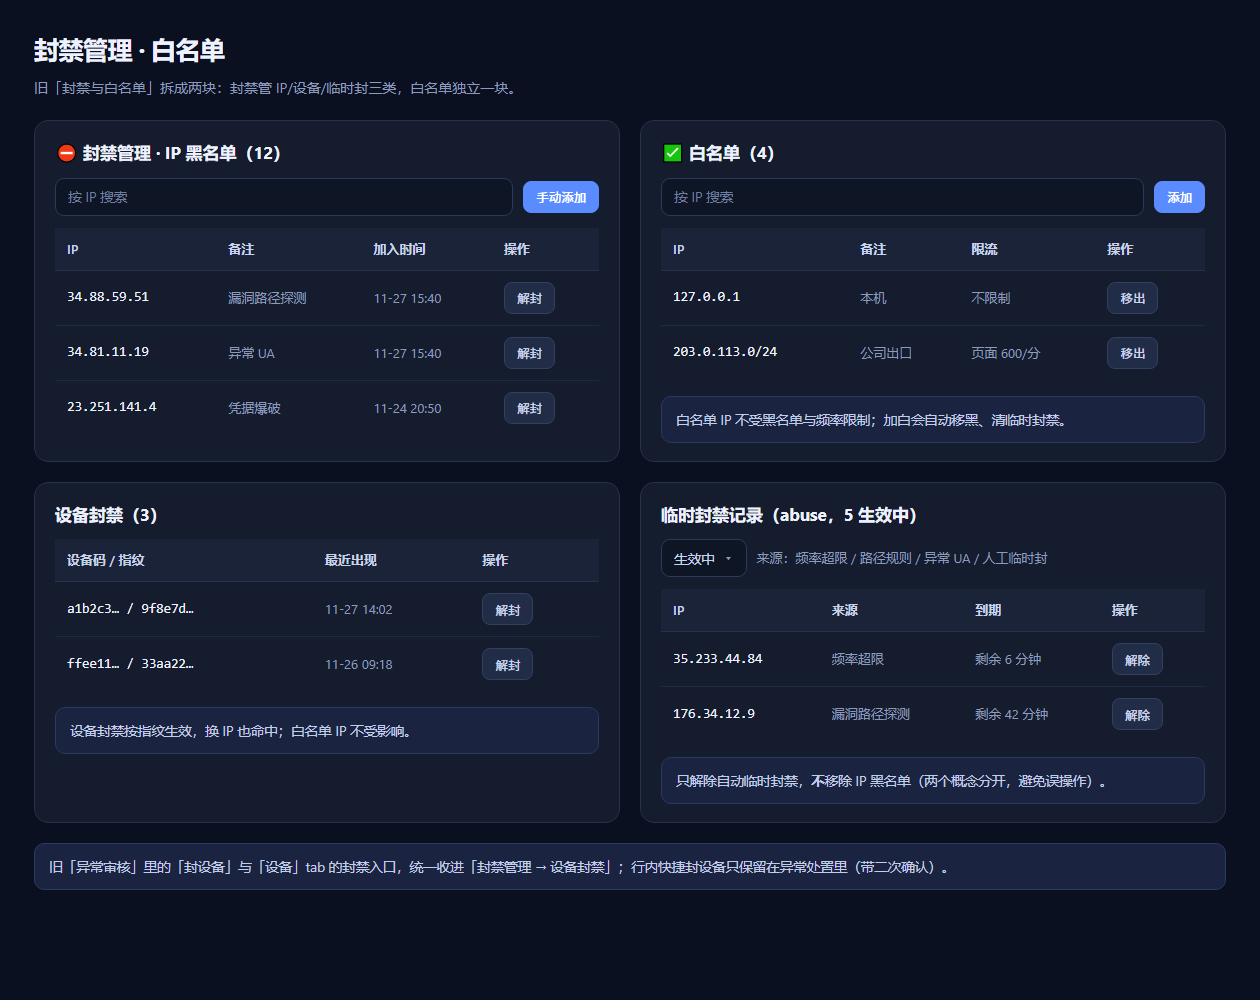
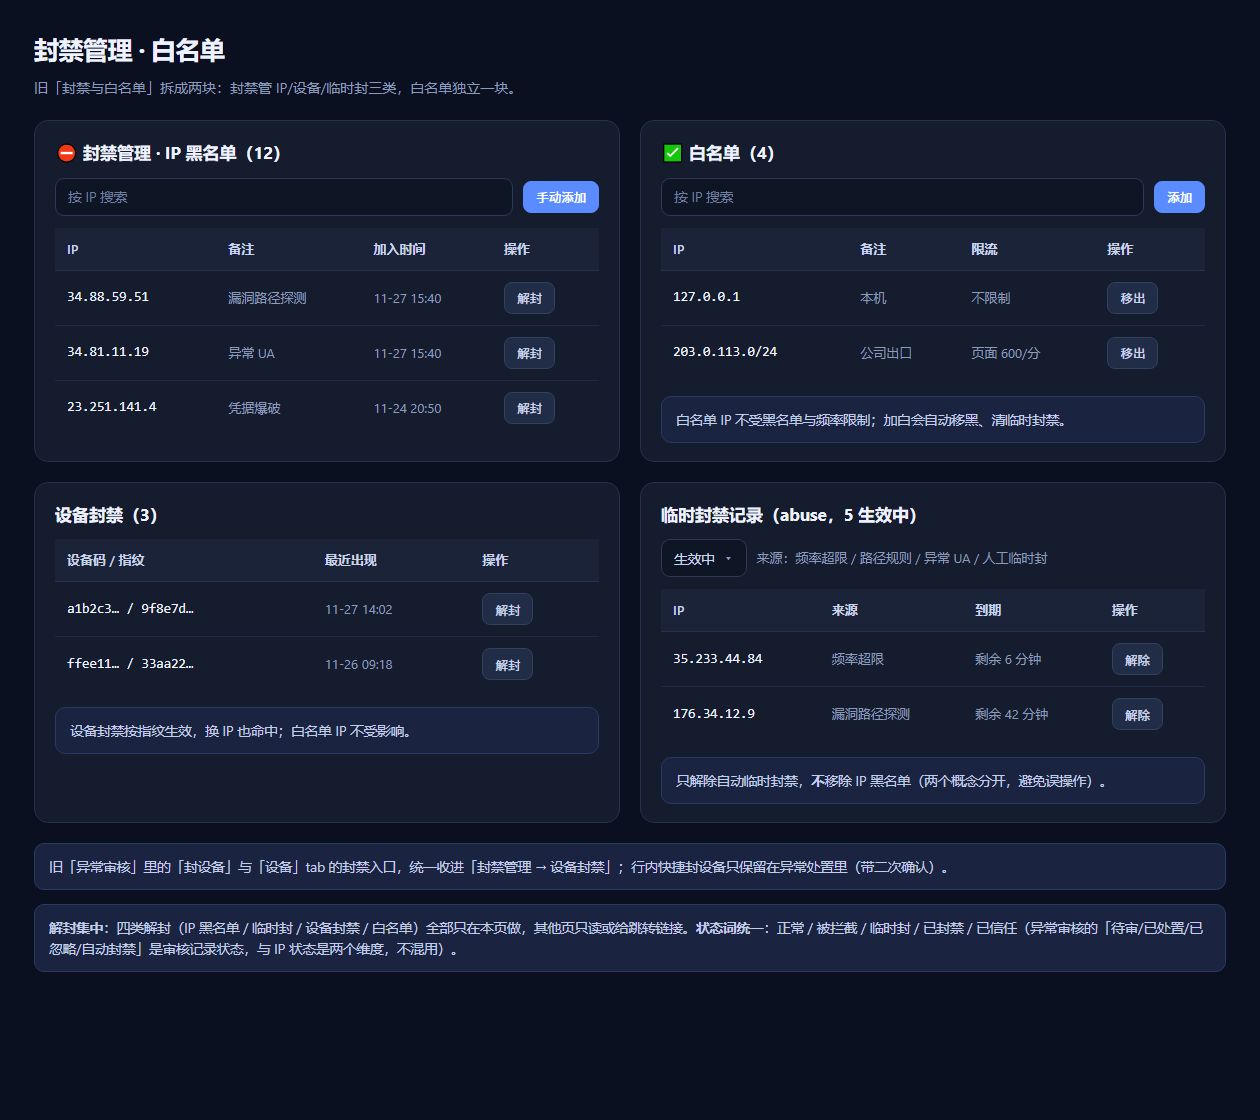
docs(design): FZ 定稿——处置只留异常处置一个入口 + IP 详情抽屉 + 解封集中/状态词统一（demo 与规格同步）

diff --git a/docs/design/visitors-redesign-2026-11-27.html b/docs/design/visitors-redesign-2026-11-27.html
@@ -66,6 +66,17 @@
   .k{color:#7f8fb3;font-size:12.5px}
   .step{display:flex;align-items:center;gap:10px;color:var(--muted);font-size:13px;margin:0 0 10px}
   .num{display:inline-flex;width:21px;height:21px;border-radius:50%;background:var(--brand);color:#fff;font-size:12px;align-items:center;justify-content:center;flex:none}
+  .drawer{width:520px;flex:none;background:#111a2b;border:1px solid #2c3a5e;border-radius:14px;overflow:hidden;box-shadow:0 18px 50px #0008}
+  .drawer-head{display:flex;align-items:center;justify-content:space-between;padding:14px 18px;border-bottom:1px solid var(--border);font-weight:650;font-size:15px}
+  .drawer-body{padding:16px 18px}
+  .drawer-body h4{font-size:13px;color:var(--fg2);margin:16px 0 8px;font-weight:600}
+  .drawer-body h4:first-child{margin-top:0}
+  .kv{display:flex;justify-content:space-between;gap:12px;padding:7px 0;font-size:13.5px;border-bottom:1px dashed #1e2942}
+  .kv span{color:var(--muted)}
+  .kpi2{display:grid;grid-template-columns:repeat(3,1fr);gap:8px;margin-top:12px}
+  .kpi2 div{background:#0e1524;border:1px solid #2c3a5a;border-radius:9px;padding:9px 10px;font-size:12px;color:var(--muted)}
+  .kpi2 b{display:block;font-size:18px;color:var(--fg);margin-top:3px}
+  .drawer-foot{display:flex;justify-content:flex-end;gap:8px;padding:12px 18px;border-top:1px solid var(--border);background:#0e1626}
 </style>
 </head>
 <body>
@@ -92,7 +103,7 @@
         <div class="kpi"><span>今日请求</span><b>12,847</b></div>
         <div class="kpi"><span>被拦截</span><b>386</b></div>
         <div class="kpi hot"><span>待审异常</span><b>3</b></div>
-        <div class="kpi warn"><span>封禁中</span><b>5</b></div>
+        <div class="kpi warn"><span>临时封</span><b>5</b></div>
         <div class="kpi"><span>IP 黑名单</span><b>12</b></div>
         <div class="kpi"><span>白名单</span><b>4</b></div>
       </div>
@@ -132,43 +143,57 @@
   </div>
 </section>
 
-<!-- ============ 图 2：访问分析（只读 + 快捷封禁） ============ -->
+<!-- ============ 图 2：访问分析（只读）+ IP 详情抽屉 ============ -->
 <section id="s2" class="shot" style="display:none">
-  <h1>访问分析</h1>
-  <p class="sub">旧「访问明细」。只读分析为主，行内保留快捷封禁/信任；封禁后该行默认移出。</p>
+  <h1>访问分析（只读）+ IP 详情抽屉</h1>
+  <p class="sub">访问分析只读、没有封禁按钮；点 IP 开抽屉，一处看全访问/异常/设备/状态；处置统一去「异常处置」。</p>
 
-  <div class="card" style="margin-top:22px">
-    <div class="bar">
-      <div class="sel">近 7 天 <span class="muted">▾</span></div>
-      <div class="sel">有效访问（默认） <span class="muted">▾</span></div>
-      <div class="search">按 IP 搜索</div>
-      <span class="muted">共 72 个 IP · 已隐藏 12 个已封禁 / 4 个已信任</span>
+  <div style="display:flex;gap:20px;margin-top:22px;align-items:flex-start">
+    <div class="card" style="flex:1;margin-top:0">
+      <div class="bar">
+        <div class="sel">近 7 天 <span class="muted">▾</span></div>
+        <div class="sel">有效访问（默认） <span class="muted">▾</span></div>
+        <div class="search">按 IP 搜索</div>
+      </div>
+      <p class="muted" style="margin-bottom:10px">共 72 个 IP · 已隐藏 12 个已封禁 / 4 个已信任</p>
+      <table>
+        <tr><th>IP</th><th>地区</th><th>访问</th><th>路径</th><th>设备</th><th>状态</th><th>操作</th></tr>
+        <tr><td class="mono">223.166.239.55</td><td>中国 上海</td><td>254</td><td>30</td><td>0</td><td><span class="tag t-normal">正常</span></td><td><button class="btn">详情</button></td></tr>
+        <tr><td class="mono">35.233.44.84</td><td>比利时 布鲁塞尔</td><td>107</td><td>106</td><td>0</td><td><span class="tag t-ban">临时封 · 6 分钟</span></td><td><button class="btn">详情</button></td></tr>
+        <tr><td class="mono">176.34.12.9</td><td>法国 巴黎</td><td>98</td><td>98</td><td>1</td><td><span class="tag t-int">被拦截</span></td><td><button class="btn">详情</button></td></tr>
+      </table>
+      <div class="note"><b>只读</b>：没有封禁/信任按钮，封禁入口从 5 个降到 0（处置只在「异常处置」）；行为统一后不再出现「封了页面不刷新」。</div>
     </div>
-    <table>
-      <tr><th>IP</th><th>地区</th><th>访问次数</th><th>首次 → 最近</th><th>独立路径</th><th>设备</th><th>状态</th><th>操作</th></tr>
-      <tr><td class="mono">223.166.239.55</td><td>中国 上海</td><td>254</td><td class="muted">11-21 07:50 → 11-27 15:36</td><td>30</td><td>0</td><td><span class="tag t-normal">正常</span></td><td><button class="btn danger">封禁</button> <button class="btn">信任</button></td></tr>
-      <tr><td class="mono">35.233.44.84</td><td>比利时 布鲁塞尔</td><td>107</td><td class="muted">11-26 22:56 → 22:57</td><td>106</td><td>0</td><td><span class="tag t-ban">封禁中 · 6 分钟</span></td><td><button class="btn danger">封禁</button> <button class="btn">信任</button></td></tr>
-      <tr><td class="mono">130.211.87.56</td><td>比利时 布鲁塞尔</td><td>107</td><td class="muted">11-26 02:41 → 02:41</td><td>107</td><td>0</td><td><span class="tag t-int">被拦截</span></td><td><button class="btn danger">封禁</button> <button class="btn">信任</button></td></tr>
-    </table>
-    <div style="display:flex;align-items:center;gap:12px;margin-top:14px">
-      <button class="btn">◀ 上一页</button><span class="muted">第 1 / 4 页 · 每页 20</span><button class="btn">下一页 ▶</button>
+
+    <div class="drawer">
+      <div class="drawer-head">IP 详情 <span class="mono" style="font-size:13.5px">176.34.12.9</span></div>
+      <div class="drawer-body">
+        <div class="kv"><span>地区</span><b>法国 巴黎</b></div>
+        <div class="kv"><span>状态</span><b style="color:#fbbf24">被拦截（1 条待审）</b></div>
+        <div class="kpi2">
+          <div>访问次数<b>98</b></div>
+          <div>独立路径<b>98</b></div>
+          <div>设备<b>1</b></div>
+        </div>
+        <h4>最近访问</h4>
+        <table style="font-size:13px">
+          <tr><td class="muted">11-26 02:41:07</td><td class="mono">/api/games/search</td><td>403</td></tr>
+          <tr><td class="muted">11-26 02:41:03</td><td class="mono">/api/games</td><td>403</td></tr>
+        </table>
+        <h4>异常规则（1 条待审）</h4>
+        <table style="font-size:13px">
+          <tr><td>漏洞路径探测</td><td>×98 命中</td><td><span class="tag t-pending">待审</span></td></tr>
+        </table>
+        <h4>设备</h4>
+        <table style="font-size:13px">
+          <tr><td class="mono">a1b2c3…</td><td class="muted">11-26 02:41</td><td><span class="tag t-normal">正常</span></td></tr>
+        </table>
+      </div>
+      <div class="drawer-foot"><button class="btn">关闭</button><button class="btn primary">去异常处置</button></div>
     </div>
-    <div class="note">「明细」子视图与这里同口径（封禁/信任后同样移出）；时间窗 1/7/30 天。「封禁中」是临时封禁，留在列表里观察到到期。</div>
   </div>
 
-  <div class="card rel">
-    <div style="display:flex;align-items:center;justify-content:space-between;gap:14px;margin-bottom:10px">
-      <div class="step" style="margin:0"><span class="num">2</span>行内点「封禁」→ 确认 → 该行消失，toast 可撤销</div>
-      <div class="toast" style="position:static;box-shadow:none"><span>✅</span><span><b>130.211.87.56</b> 已封禁</span><span class="act">撤销</span><span class="muted">✕</span></div>
-    </div>
-    <table>
-      <tr><th>IP</th><th>地区</th><th>访问次数</th><th>状态</th><th>操作</th></tr>
-      <tr><td class="mono">223.166.239.55</td><td>中国 上海</td><td>254</td><td><span class="tag t-normal">正常</span></td><td><button class="btn danger">封禁</button> <button class="btn">信任</button></td></tr>
-      <tr><td class="mono">35.233.44.84</td><td>比利时 布鲁塞尔</td><td>107</td><td><span class="tag t-ban">封禁中 · 6 分钟</span></td><td><button class="btn danger">封禁</button> <button class="btn">信任</button></td></tr>
-      <tr><td class="mono">176.34.12.9</td><td>法国 巴黎</td><td>98</td><td><span class="tag t-int">被拦截</span></td><td><button class="btn danger">封禁</button> <button class="btn">信任</button></td></tr>
-    </table>
-    <div class="note">撤销 = 移出黑名单，行回原位；5 秒内可点。计数与分页同步（当前页空了自动回上一页）。</div>
-  </div>
+  <div class="note">抽屉只读（不在这里封禁，避免再造一个入口）；有待审时给「去异常处置」并定位该 IP；已封禁时给「去封禁管理」链接。</div>
 </section>
 
 <!-- ============ 图 3：封禁管理 + 白名单 ============ -->
@@ -224,6 +249,7 @@
   </div>
 
   <div class="note" style="margin-top:20px">旧「异常审核」里的「封设备」与「设备」tab 的封禁入口，统一收进「封禁管理 → 设备封禁」；行内快捷封设备只保留在异常处置里（带二次确认）。</div>
+  <div class="note" style="margin-top:14px"><b>解封集中</b>：四类解封（IP 黑名单 / 临时封 / 设备封禁 / 白名单）全部只在本页做，其他页只读或给跳转链接。<b>状态词统一</b>：正常 / 被拦截 / 临时封 / 已封禁 / 已信任（异常审核的「待审/已处置/已忽略/自动封禁」是审核记录状态，与 IP 状态是两个维度，不混用）。</div>
 </section>
 
 <script>
@@ -235,3 +261,4 @@
 </script>
 </body>
 </html>
+

diff --git a/docs/VISITORS-REDESIGN.md b/docs/VISITORS-REDESIGN.md
@@ -33,6 +33,9 @@
 | 8 | **封禁/信任的唯一处置入口 = 异常处置**；访问分析只保留行内快捷操作（带二次确认） |
 | 9 | 设备封禁入口收进「封禁管理 → 设备封禁」；异常处置里的行内「封设备」保留（二次确认） |
 | 10 | 不改 `visitor_logs` 等数据（历史都在，只是默认不查）；不改权限模型 |
+| 11 | **处置动作只留「异常处置」一个入口**：访问分析改成**只读**（不再有封禁/信任按钮），封 IP / 信任 / 封设备只在异常处置做——入口从 5 个降到 1 个 |
+| 12 | **新增「IP 详情抽屉」**：点任意列表的 IP 打开只读抽屉（地区/状态/访问统计/最近记录/异常规则/设备），一处看全；有待审给「去异常处置」、已封禁给「去封禁管理」链接 |
+| 13 | **解封集中到「封禁管理」**：IP 黑名单 / 临时封 / 设备封禁 / 白名单四类解封只在这一页做；**状态词统一**为「正常 / 被拦截 / 临时封 / 已封禁 / 已信任」（异常审核的待审/已处置/已忽略/自动封禁是审核记录状态，与 IP 状态是两个维度，不混用） |
 
 ## 2. 信息架构（左导航 5 块）
 
@@ -40,17 +43,19 @@
 |---|---|---|
 | **概览** | `overview` | 6 张数字卡 + 待审提醒；点「待审」跳异常处置 |
 | **异常处置** | `review` | 按 IP 合并的待审队列（唯一处置入口）：临时封（10m/1h/1d）/ 永久封 / 信任 / 忽略 + 批量 |
-| **访问分析** | `analysis` | IP 统计（默认）/ 明细子视图 + 时间窗 1/7/30 + 状态筛选（有效访问默认）+ 搜索 + 展开详情 + 行内快捷封禁/信任 |
-| **封禁管理** | `ban` | IP 黑名单（解封 / 手动添加）、设备封禁（解封）、临时封禁记录（abuse：生效中/已过期/全部，解除≠移黑） |
+| **访问分析** | `analysis` | IP 统计（默认）/ 明细子视图 + 时间窗 1/7/30 + 状态筛选（有效访问默认）+ 搜索 + 展开详情；**只读**，行内只留「详情」打开 IP 抽屉 |
+| **IP 详情抽屉**（跨块共用） | — | 只读：地区 / 状态 / 访问次数 / 独立路径 / 设备 / 最近访问 / 异常规则；底部给「去异常处置」或「去封禁管理」跳转 |
+| **封禁管理** | `ban` | IP 黑名单（解封 / 手动添加）、设备封禁（解封）、临时封禁记录（abuse：生效中/已过期/全部，解除≠移黑）——**四类解封集中在这一页** |
 | **白名单** | `whitelist` | 白名单列表（备注 / 限流配置 / 移出 / 添加） |
 
 ## 3. 关键交互
 
-1. **封禁/信任后移出**：成功 → 乐观移除该行 → 重新拉取当前页补齐（当前页空了回上一页）→ toast 带「撤销」5 秒；
-2. **撤销**：调 `DELETE /api/admin/blacklist/:ip`（信任的撤销调 `DELETE /api/admin/whitelist/:ip`），行回原位；
-3. **计数联动**：概览的「待审 / 黑名单 / 白名单」数字同步减 1；
-4. **状态口径**：`active`（有效访问，默认，排除 blacklisted + trusted）/ `normal` / `intercepted` / `banned`（临时封禁，保留）/ `blocked` / `trusted`；
-5. **明细与统计同口径**；时间窗切换清空展开缓存。
+1. **处置入口唯一**：封 IP / 信任 / 封设备只在「异常处置」（行内 + 批量）；访问分析列表与 IP 抽屉**不提供**封禁按钮（抽屉给跳转链接）；
+2. **IP 详情抽屉**：点任意 IP 打开，只读展示「访问统计 / 最近访问 / 异常规则 / 设备 / 状态」；有待审 → 「去异常处置」并定位；已封禁 → 「去封禁管理」；
+3. **封禁/信任后移出**：在异常处置处置成功后，该 IP 从待审队列消失、待审数减 1；它在「访问分析」的默认视图（有效访问）里也不再出现；
+4. **解封集中**：四类解封（黑名单 / 临时封 / 设备 / 白名单）只在「封禁管理」；「解除临时封禁」仍只动 `ip_abuse`、不移黑名单（BJ 批决策不变）；
+5. **状态词统一**：正常 `normal` / 被拦截 `intercepted` / 临时封 `banned`（显示剩余时间）/ 已封禁 `blocked` / 已信任 `trusted`；
+6. **明细与统计同口径**；时间窗切换清空展开缓存。
 
 ## 4. 数据与接口
 
@@ -68,8 +73,11 @@
 
 - 访问记录页从「四个横 tab」重写为「左导航 5 块」（与 FY 设置页同构），URL 可用 `?view=` 记录当前块；
 - 概览数字卡：`GET /api/admin/visitors/overview`，30 秒自动刷新（页面可见时）；
-- 列表行组件抽取（复用 FY 的行样式），封禁/信任按钮统一走一个 `banThenRemove` 封装（乐观移除 + 补页 + toast 撤销）；
-- 移动端：左导航收成顶部下拉；卡片化列表保留。
+- **访问分析只读**：行内只留「详情」；新增 `IpDetailDrawer.vue`（只读抽屉，跨块复用）；
+- **处置只在异常处置**：封禁/信任/封设备统一走一个 `disposeThenRemove` 封装（乐观移除 + 补页 + toast 撤销 5 秒）；
+- **解封集中在封禁管理**：四类解封各有独立 API，UI 集中一页；
+- **状态词集中**：一个 `visitorStatus.js` 映射表（正常/被拦截/临时封/已封禁/已信任），全站引用，不再各写一套；
+- 移动端：左导航收成顶部下拉；抽屉全屏；卡片化列表保留。
 
 **demo**：[design/visitors-redesign-2026-11-27.html](design/visitors-redesign-2026-11-27.html)（`?shot=1/2/3`），
 验收必须「与 demo 一致」。
@@ -84,12 +92,12 @@
 
 1. 左导航 5 块；URL `?view=` 可直达每块、浏览器后退可回；
 2. 概览数字卡 6 项与接口一致；待审 > 0 标红、点击进异常处置；30 秒自动刷新（页面可见时）；
-3. 异常处置：按 IP 合并、展开逐条规则、四种操作可用；批量封 IP/封设备/忽略可用；**处置后行消失且待审数减 1**；
-4. 访问分析默认「有效访问」：已封禁 / 已信任 IP **不出现**；切「已封禁 / 已信任」可查历史；
-5. 行内封禁/信任 → 确认 → 行消失 + toast「撤销」5 秒；点撤销后行回原位（黑名单/白名单已移除）；
-6. 当前页最后一条被移除时自动回上一页；计数与分页同步；
-7. 封禁管理三块（IP 黑名单 / 设备封禁 / 临时封禁记录）与白名单块功能完整；「解除临时封禁」不删黑名单；
-8. 移动端 375px 左导航变下拉、列表卡片化无横向溢出；`npm test`（分段）+ `frontend:build` + `scan` 全绿。
+3. **异常处置是唯一处置入口**：行内（临时封/永久封/信任/忽略）+ 批量（封 IP/封设备/忽略）可用；**访问分析与 IP 抽屉均无封禁/信任按钮**（模板静态锁）；
+4. **IP 抽屉**：点 IP 打开只读抽屉，含地区/状态/访问次数/独立路径/设备/最近访问/异常规则；有待审给「去异常处置」、已封禁给「去封禁管理」；
+5. 访问分析默认「有效访问」：已封禁 / 已信任 IP **不出现**；切「已封禁 / 已信任」可查历史；明细视图同口径；
+6. 处置后行消失 + toast「撤销」5 秒（撤销后行回原位、黑/白名单已移除）；当前页空了自动回上一页；计数同步；
+7. **解封集中在封禁管理**：四类解封可用（黑名单/临时封/设备/白名单）；「解除临时封禁」不删黑名单；**状态词全站统一**（正常/被拦截/临时封/已封禁/已信任）；
+8. 移动端 375px 左导航变下拉、抽屉全屏、列表卡片化无横向溢出；`npm test`（分段）+ `frontend:build` + `scan` 全绿。
 
 ## 8. 实施顺序（本批暂不排期）
 
@@ -98,10 +106,10 @@
 | 子批 | 内容 | 验收 |
 |---|---|---|
 | **FZ-1** 结构与概览 | 左导航 5 块 + `?view=` + 概览数字卡（含 overview 接口） | §7 的 1 / 2 |
-| **FZ-2** 处置与列表 | 异常处置队列 + 访问分析（active/trusted 口径）+ 封禁/信任移出与撤销 + 封禁管理 + 白名单 | §7 的 3~8 |
+| **FZ-2** 处置与列表 | 异常处置队列（唯一处置入口）+ 访问分析（只读，active/trusted 口径）+ IP 详情抽屉 + 处置后移出与撤销 + 封禁管理（四类解封）+ 白名单 + 状态词统一 | §7 的 3~8 |
 
 **暂不派开发**：所有者 2026-11-27 明确「只出设计，暂不排开发」，待 FX/FY 完成后按需插队。
 
 ## 9. 待确认
 
-无（方向 / 概览 / 拆块 / 封禁移出与撤销 / 信任也移出 / 逐条同口径 六项已于 2026-11-27 确认）。
+无（九项已于 2026-11-27 确认：A 五块 / 概览数字卡 / 封禁与白名单拆分 / 封禁信任后移出 / toast 撤销 / 信任也移出 / 逐条同口径 / **处置只留异常处置一个入口** / **IP 详情抽屉** / **解封集中 + 状态词统一**）。

diff --git a/docs/REQUIREMENTS-INDEX.md b/docs/REQUIREMENTS-INDEX.md
@@ -183,7 +183,7 @@
 | **FW** | ⚙ 调整：慢慢同步——heat 100 款/10 分钟 + 过期阈值 30 天；steam-discovery 10 页/30 分钟 + fallback 10/轮 + 页游标（`app_meta`）；403/429 都切代理（按代理冷却 + 每请求 3 条 + 速率闸门 30 次/分钟，修订 PROXY-POOL 决策 1）；403 软退出 76 + 预警节流；拆 FW-1 / FW-2 / FW-3 | [SLOW-SYNC.md](SLOW-SYNC.md)、[PROXY-POOL.md](PROXY-POOL.md) §12 | 已发布 v2.31.0（2026-11-27；FW-1 `7c21b29` / FW-2 `09c7036` / FW-3 `cde8ea9`+`ee85ffb`；QA-FW-1/2/3 全放行） | ✅ 本轮已给 |
 | **FX** | ⚙ 调整：后台密钥查看统一——8 个 secret 在四种布局分支统一「**密码框 + 眼睛图标**原地切换明文/密文」（懒加载、30 秒自动回密文、未改动不提交）；审计写 `audit_logs`（`admin.secret_revealed`）；抽 `SecretField.vue` | [SECRET-REVEAL.md](SECRET-REVEAL.md)、demo `design/secret-reveal-2026-11-27.html` | 待开发（2026-11-27 确认，含 demo） | ✅ 本轮已给 |
 | **FY** | ⚙ 调整：系统设置页重设计——左导航 7 组（重划，去「高级」混维度）+ `/console/settings/:group` 二级路由 + 去卡片盒子（层级 3→2）+ 每项即时保存（防抖 + 合并）+ 工具栏只留搜索/只看非默认 | [SETTINGS-REDESIGN.md](SETTINGS-REDESIGN.md)、demo `design/settings-redesign-2026-11-27.html` | 待开发（2026-11-27 确认，含 demo；依赖 FX） | ✅ 本轮已给 |
-| **FZ** | ⚙ 调整：访问记录重设计——左导航五块（概览/异常处置/访问分析/封禁管理/白名单）+ 概览 6 张数字卡 + 封禁/信任后移出默认视图（toast 5 秒撤销）+ 明细统计同口径；新增 overview 接口、status 加 active/trusted | [VISITORS-REDESIGN.md](VISITORS-REDESIGN.md)、demo `design/visitors-redesign-2026-11-27.html` | 待开发（2026-11-27 确认，含 demo；**暂不排开发**） | ✅ 本轮已给 |
+| **FZ** | ⚙ 调整：访问记录重设计——左导航五块（概览/异常处置/访问分析/封禁管理/白名单）+ 概览 6 张数字卡 + **处置只留异常处置一个入口**（访问分析只读）+ **IP 详情抽屉** + 封禁/信任后移出（toast 5 秒撤销）+ **四类解封集中 + 状态词统一**；新增 overview 接口、status 加 active/trusted | [VISITORS-REDESIGN.md](VISITORS-REDESIGN.md)、demo `design/visitors-redesign-2026-11-27.html` | 待开发（2026-11-27 确认，含 demo；**暂不排开发**） | ✅ 本轮已给 |
 
 ## 本会话（2026-11-06）讨论过、但**不属于项目文档**的内容
 

diff --git a/docs/TODO.md b/docs/TODO.md
@@ -276,7 +276,9 @@
   （`banIp()` 只刷 `loadSecurity()`，不刷当前列表）、封设备三处、三处都在按 IP 看数据、封禁页塞三个列表、无概览、
   待审（真正的待办）埋在第二位。
 - **范围**：左导航五块（概览 / 异常处置 / 访问分析 / 封禁管理 / 白名单）；概览 6 张数字卡（待审标红可点）；
-  封禁/信任后行从「有效访问」默认视图移出 + toast 5 秒撤销；明细与统计同口径；封禁与白名单拆两块；
+  **处置只留「异常处置」一个入口**（访问分析改只读，封禁/信任/封设备从 5 个入口降到 1 个）；
+  **新增 IP 详情抽屉**（只读看全访问/异常/设备/状态）；封禁/信任后行从「有效访问」移出 + toast 5 秒撤销；
+  明细与统计同口径；**四类解封集中到封禁管理**；**状态词统一**（正常/被拦截/临时封/已封禁/已信任）；
   设备封禁收进封禁管理；新增 `GET /api/admin/visitors/overview`，`by-ip`/`visitors` 的 status 加 `active`（默认）/`trusted`。
 - **验收**：见规格 §7（8 条）；拆 FZ-1（结构+概览）/ FZ-2（处置+列表）两批。
 - **排期**：**暂不派开发**，等所有者决定。
